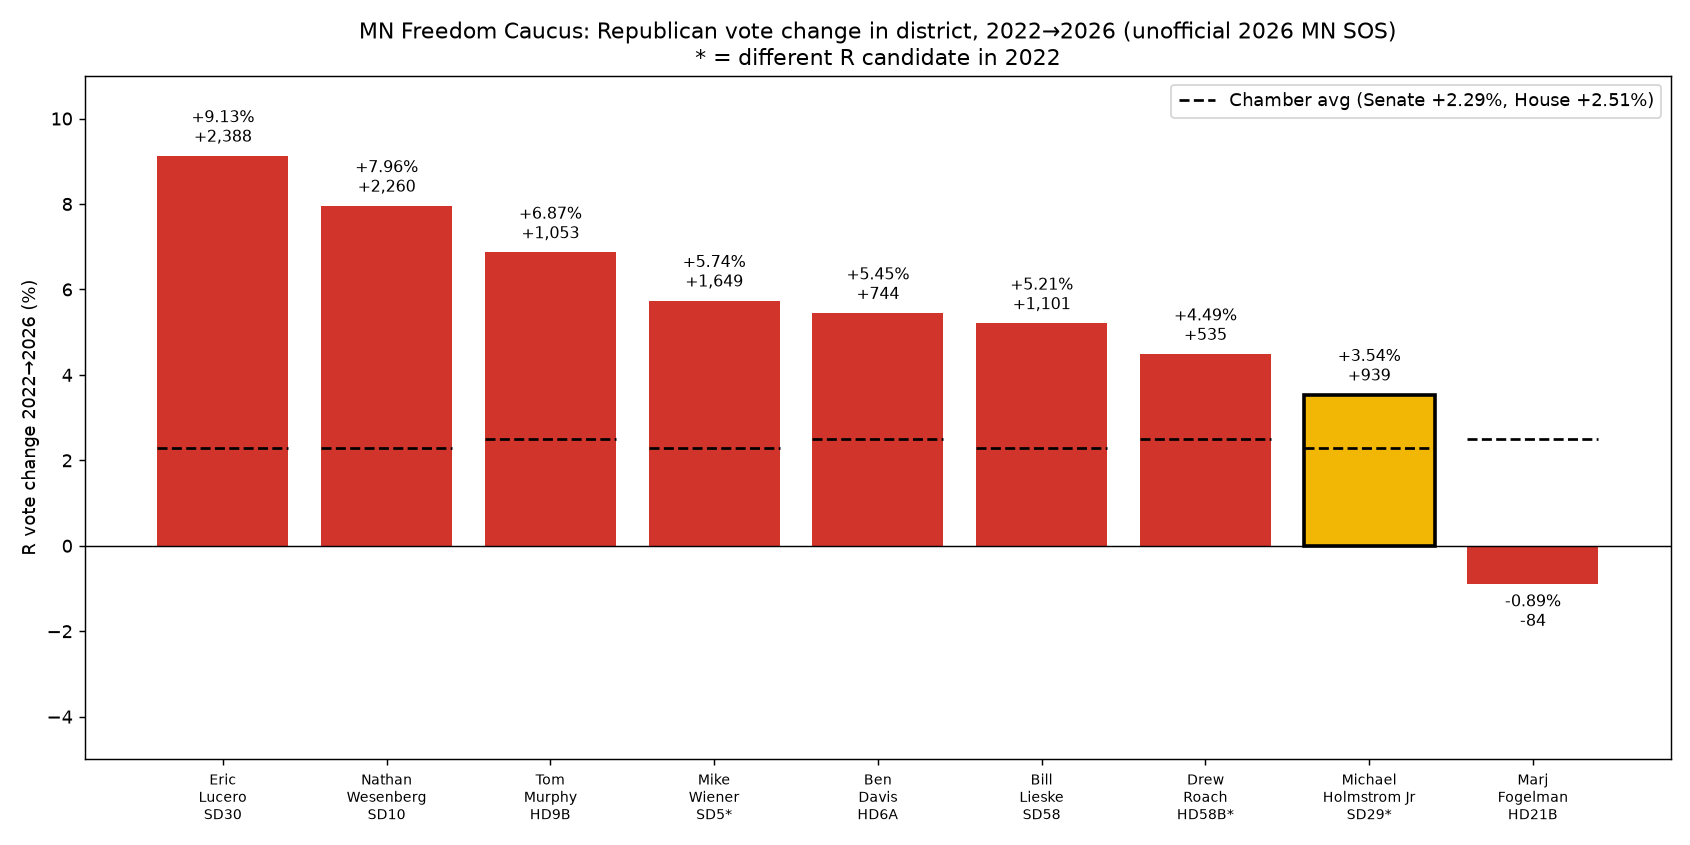
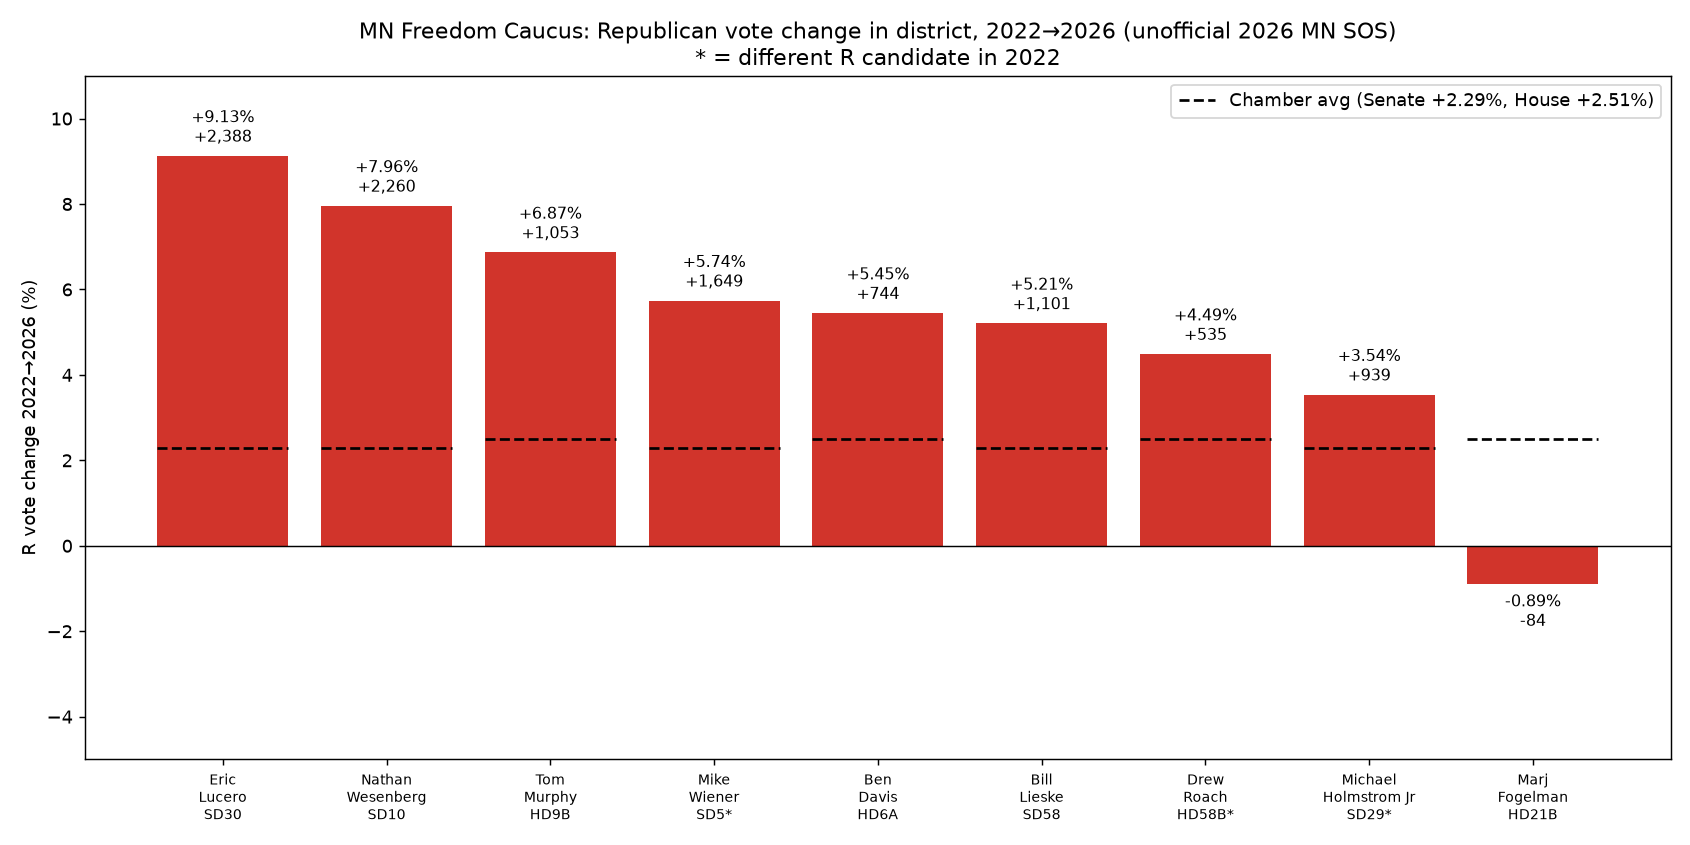
Remove yellow highlight

Changed region(s): [[0.7692, 0.4615, 0.8615, 0.6462]]

diff --git a/freedom-caucus.html b/freedom-caucus.html
@@ -1,5 +1,5 @@
 <!DOCTYPE html><html lang="en"><head><meta charset="utf-8"><meta name="viewport" content="width=device-width,initial-scale=1"><title>MN Freedom Caucus: R Turnout vs 2022</title>
-<style>body{font-family:system-ui,sans-serif;max-width:1100px;margin:auto;padding:16px;color:#222}h1{color:#d1342b}img{width:100%}table{border-collapse:collapse;width:100%;font-size:14px}td,th{border-bottom:1px solid #ddd;padding:4px 8px;text-align:right}td:first-child,th:first-child{text-align:left}.hl{background:#fff3c4;font-weight:600}</style></head><body>
+<style>body{font-family:system-ui,sans-serif;max-width:1100px;margin:auto;padding:16px;color:#222}h1{color:#d1342b}img{width:100%}table{border-collapse:collapse;width:100%;font-size:14px}td,th{border-bottom:1px solid #ddd;padding:4px 8px;text-align:right}td:first-child,th:first-child{text-align:left}.hl{font-weight:600}</style></head><body>
 <p><a href="./">&larr; Back to the results map</a></p>
 <h1>MN Freedom Caucus: Republican Turnout vs 2022</h1>
 <p>How much the Republican vote in each member's district grew or shrank from 2022 to 2026, compared with the average change across the chamber. The average covers every district with an R and a ballot opponent in both years: 57 Senate districts averaged <b>+2.29%</b> and 107 House districts averaged <b>+2.51%</b>. Wiener (SD5) is compared with the Senate average. Sorted by the difference from the average.</p>
